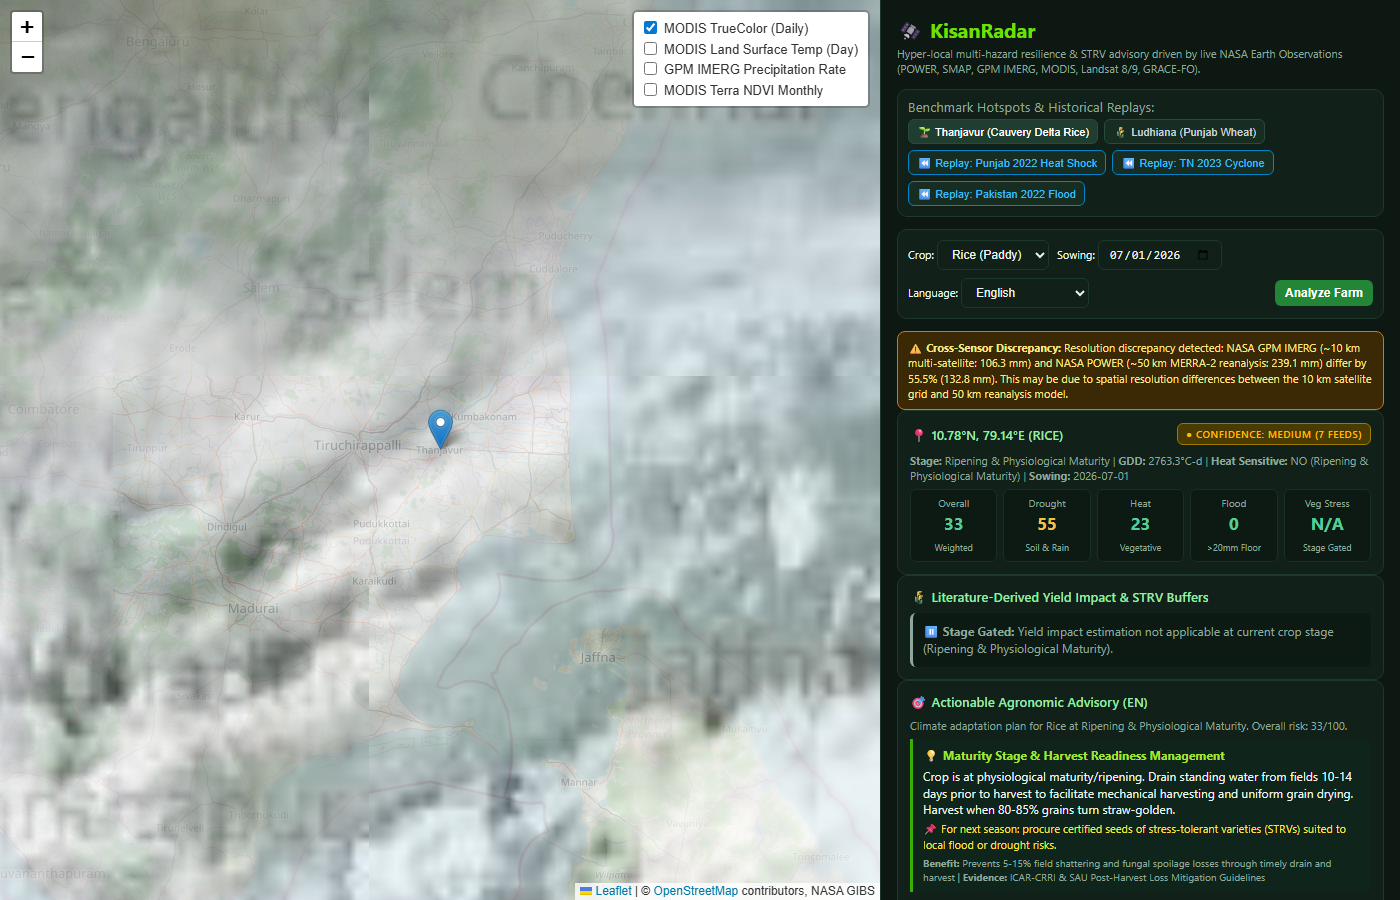
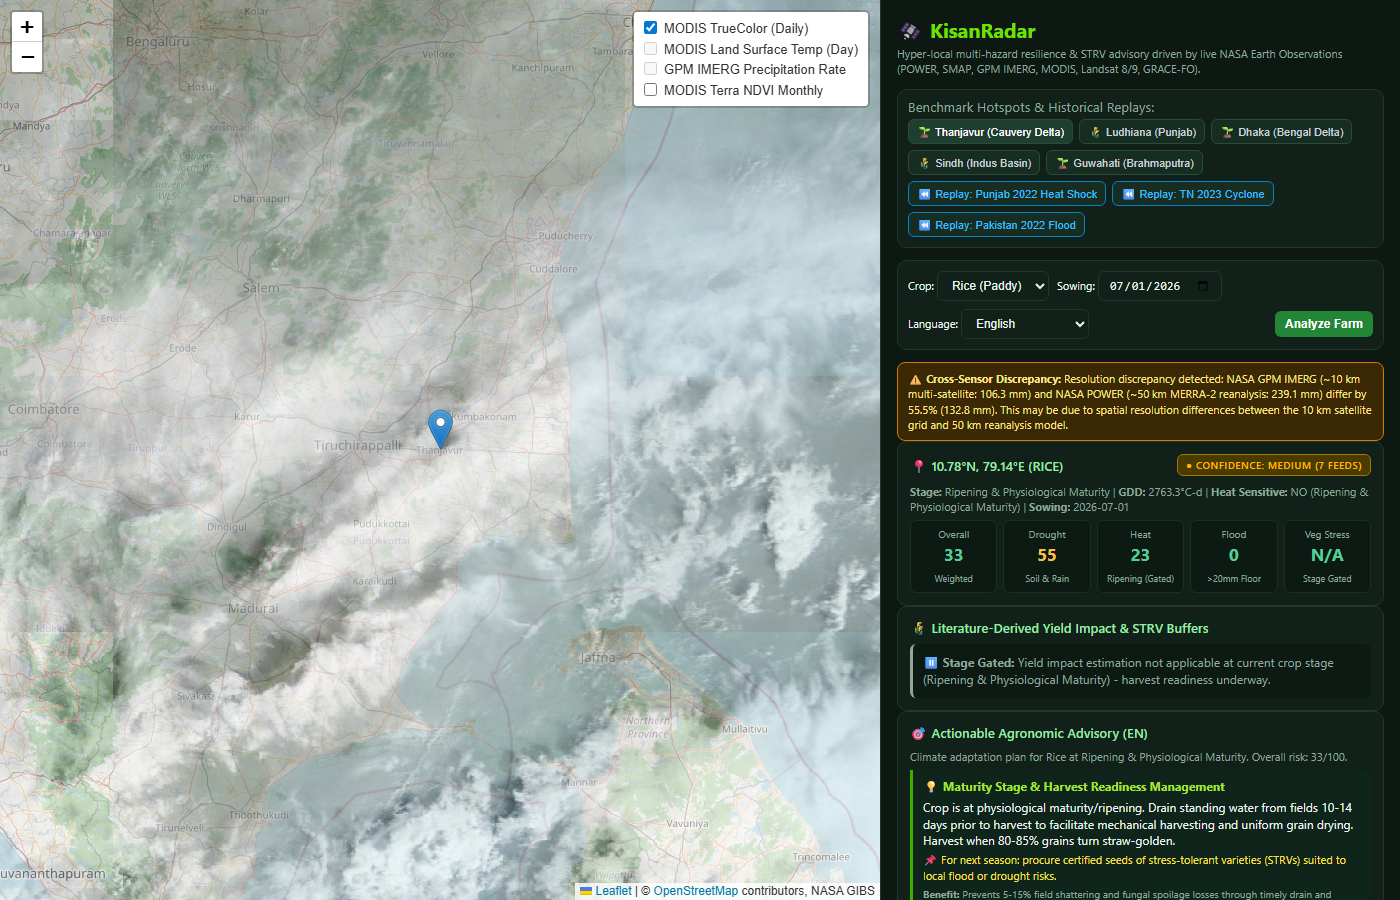
Fix UI labels, stage-gated yield at emergence, cap MODIS zoom, and document heuristics

diff --git a/frontend/index.html b/frontend/index.html
@@ -243,13 +243,13 @@
       <div class="row">
         <label style="font-size: 11px;">Crop:
           <select id="crop">
+            <option value="wheat" selected>Wheat</option>
             <option value="rice">Rice (Paddy)</option>
-            <option value="wheat">Wheat</option>
             <option value="maize">Maize</option>
           </select>
         </label>
         <label style="font-size: 11px;">Sowing:
-          <input type="date" id="sowing_date" value="2026-07-01">
+          <input type="date" id="sowing_date" value="2026-11-10">
         </label>
         <label style="font-size: 11px;">Language:
           <select id="lang">
@@ -277,8 +277,8 @@
   </div>
 
   <script>
-    // Initialize Leaflet Map centered on South Asia
-    const map = L.map('map').setView([20.59, 78.96], 5);
+    // Initialize Leaflet Map centered on Ludhiana, Punjab
+    const map = L.map('map').setView([30.90, 75.85], 7);
     L.tileLayer('https://{s}.tile.openstreetmap.org/{z}/{x}/{y}.png', {
       attribution: '&copy; <a href="https://www.openstreetmap.org/copyright">OpenStreetMap</a> contributors',
       maxZoom: 18
@@ -294,7 +294,7 @@
     const gibsUrl = (layer, time, maxZoom, ext = 'png') =>
       L.tileLayer(`https://gibs.earthdata.nasa.gov/wmts/epsg3857/best/${layer}/default/${time}/GoogleMapsCompatible_Level${maxZoom}/{z}/{y}/{x}.${ext}`, {
         maxNativeZoom: maxZoom,
-        maxZoom: 12,
+        maxZoom: maxZoom,
         opacity: 0.75,
         attribution: 'NASA GIBS'
       });
@@ -309,7 +309,7 @@
     L.control.layers(null, overlayLayers, { collapsed: false }).addTo(map);
     overlayLayers['MODIS TrueColor (Daily)'].addTo(map);
 
-    let pin, trendChart, pt = { lat: 10.78, lon: 79.14 };
+    let pin, trendChart, pt = { lat: 30.90, lon: 75.85 };
 
     function jumpTo(lat, lon, cropVal, sowingVal) {
       pt = { lat: lat, lon: lon };
@@ -412,9 +412,10 @@
       let provHtml = prov.map(p => {
         const isOk = p.status === 'live' || p.status === 'cached';
         const stClass = isOk ? 'status-ok' : (p.status.includes('SKIP') ? 'status-skip' : 'status-err');
+        const srcLabel = p.source.includes('SMAP') ? `${p.source} <span style="font-size:8px; color:#94a3b8;">(short record 2015+)</span>` : p.source;
         return `
           <tr>
-            <td><b>${p.source}</b></td>
+            <td><b>${srcLabel}</b></td>
             <td><code>${p.dataset_id}</code></td>
             <td class="${stClass}">${p.status}</td>
             <td>${p.observed_through || 'N/A'}</td>
@@ -425,6 +426,7 @@
 
       let vegDisplay = k.vegetation !== null ? k.vegetation : 'N/A';
       let vegNote = k.vegetation_applicable ? 'Canopy Anomaly' : 'Stage Gated';
+      const heatStageLabel = ph.in_heat_sensitive_window ? 'Terminal (Active)' : (ph.current_phenological_stage.includes('Ripening') ? 'Ripening (Gated)' : (ph.current_phenological_stage.includes('Mature') ? 'Mature (Gated)' : 'Vegetative (Gated)'));
 
       let html = `
         ${disagreementHtml}
@@ -443,7 +445,7 @@
           <div class="gauges">
             ${g('Overall', k.overall, 'Weighted')}
             ${g('Drought', k.drought, 'Soil & Rain')}
-            ${g('Heat', k.heat, ph.in_heat_sensitive_window ? 'Terminal' : 'Vegetative')}
+            ${g('Heat', k.heat, heatStageLabel)}
             ${g('Flood', k.flood, '>20mm Floor')}
             ${g('Veg Stress', vegDisplay, vegNote)}
           </div>
@@ -470,7 +472,7 @@
               </div>
             </div>
             <small style="color:var(--text-muted); display:block; margin-top:3px; font-size:10px;">
-              Baseline: ${yp.baseline_yield_t_ha} t/ha. Loss drivers: Heat: ${yp.loss_drivers.terminal_heat_pct}%, Drought: ${yp.loss_drivers.drought_moisture_pct}%, Flood: ${yp.loss_drivers.flood_excess_pct}%. Benchmarks: ICAR-NICRA, IPCC AR6 & IRRI field trials.
+              Baseline: ${yp.baseline_yield_t_ha} t/ha (assumed regional baseline, DES India 2018-2022). Loss drivers: Heat: ${yp.loss_drivers.terminal_heat_pct}%, Drought: ${yp.loss_drivers.drought_moisture_pct}%, Flood: ${yp.loss_drivers.flood_excess_pct}%. Benchmarks: ICAR-NICRA, IPCC AR6 & IRRI field trials.
             </small>
           `}
         </div>
@@ -556,6 +558,7 @@
               <small style="display:block; color:var(--text-muted); font-size:10px;">Buffer: +${yp.yield_protected_by_adaptation_t_ha} t/ha</small>
             </div>
           </div>
+          ${yp.loss_note ? `<div style="font-size:10px; color:#93c5fd; margin-top:5px; padding:4px 6px; background:#0c2338; border-radius:4px; border-left:2px solid #38bdf8;">⚠ ${yp.loss_note}</div>` : ''}
         </div>
 
         <div class="card">

diff --git a/yield_model.py b/yield_model.py
@@ -13,18 +13,20 @@ from typing import Optional, Dict, Any
 CROP_BASELINES = {
     "rice": {
         "normal_yield_t_ha": 3.8,
+        "baseline_source": "Assumed regional baseline (Source: DES India Kharif rice district averages 2018-2022)",
         "heat_threshold_c": 34.0,
         "heat_loss_pct_per_deg": 10.0,
         "heat_loss_cap_pct": 40.0,
         "drought_resilient_variety": "Sahbhagi Dhan / BRRI Dhan 56",
         "drought_buffer_t_ha": 0.9,      # +0.8 to 1.0 t/ha advantage under drought
         "submergence_resilient_variety": "Swarna-Sub1",
-        "submergence_buffer_t_ha": 1.8,  # +1.0 to 3.0 t/ha advantage under flash floods
+        "submergence_buffer_t_ha": 2.0,  # +1.0 to 3.0 t/ha advantage under flash floods (IRRI brief)
         "saline_resilient_variety": "BRRI Dhan 47 / CSR 36",
         "documented_range_pct": "15-45% (IRRI/ICAR flood+drought trials)",
     },
     "wheat": {
         "normal_yield_t_ha": 3.4,
+        "baseline_source": "Assumed regional baseline (Source: DES India Rabi wheat district averages 2018-2022)",
         "heat_threshold_c": 31.0,
         "heat_loss_pct_per_deg": 5.0,    # Pre-anthesis pollen sterility & grain shriveling (2022 heatwave benchmark)
         "heat_loss_cap_pct": 25.0,       # Documented Punjab 2022 state avg ~10-15%, hot-spots up to 25-35%
@@ -37,6 +39,7 @@ CROP_BASELINES = {
     },
     "maize": {
         "normal_yield_t_ha": 4.2,
+        "baseline_source": "Assumed regional baseline (Source: DES India maize district averages 2018-2022)",
         "heat_threshold_c": 35.0,
         "heat_loss_pct_per_deg": 7.0,
         "heat_loss_cap_pct": 35.0,
@@ -57,18 +60,44 @@ def estimate_yield_impact(crop: str, metrics: dict, risk: dict, phenology: Optio
     """
     crop_info = CROP_BASELINES.get(crop.lower(), CROP_BASELINES["rice"])
     base_yield = crop_info["normal_yield_t_ha"]
+    base_source = crop_info["baseline_source"]
     
-    # Gate: if crop is at maturity/ripening/harvest, yield impact is not applicable
+    # Gate 1: If crop is at maturity/ripening/harvest, yield impact is not applicable (crop cycle complete)
     if phenology:
         stage = phenology.get("current_phenological_stage", "")
         stage_lower = stage.lower()
+        days = phenology.get("days_since_sowing", 999)
+        gdd = phenology.get("accumulated_gdd", 999.0)
+
         if any(kw in stage_lower for kw in ["ripening", "maturity", "mature", "harvesting", "harvest"]):
             return {
                 "yield_applicable": False,
-                "note": f"Yield impact estimation not applicable at current crop stage ({stage}).",
+                "note": f"Yield impact estimation not applicable at current crop stage ({stage}) - harvest readiness underway.",
                 "estimation_type": "Literature-Based Scenario Estimate",
                 "documented_range_pct": crop_info["documented_range_pct"],
                 "baseline_yield_t_ha": base_yield,
+                "baseline_yield_label": f"Assumed regional baseline: {base_yield} t/ha ({base_source})",
+                "predicted_yield_conventional_t_ha": base_yield,
+                "predicted_yield_with_strv_t_ha": base_yield,
+                "yield_loss_unmitigated_pct": 0.0,
+                "yield_protected_by_adaptation_t_ha": 0.0,
+                "loss_drivers": {
+                    "terminal_heat_pct": 0.0,
+                    "drought_moisture_pct": 0.0,
+                    "flood_excess_pct": 0.0
+                },
+                "recommended_interventions": []
+            }
+
+        # Gate 2: If crop is newly sown / early vegetative, no reproductive or harvestable biomass is at risk yet
+        if days < 14 or gdd < 150.0 or any(kw in stage_lower for kw in ["germination", "emergence", "crown root"]):
+            return {
+                "yield_applicable": False,
+                "note": f"Yield impact estimation not applicable at current crop stage ({stage}, Day {days}) - crop newly sown; vegetative establishment underway.",
+                "estimation_type": "Literature-Based Scenario Estimate",
+                "documented_range_pct": crop_info["documented_range_pct"],
+                "baseline_yield_t_ha": base_yield,
+                "baseline_yield_label": f"Assumed regional baseline: {base_yield} t/ha ({base_source})",
                 "predicted_yield_conventional_t_ha": base_yield,
                 "predicted_yield_with_strv_t_ha": base_yield,
                 "yield_loss_unmitigated_pct": 0.0,
@@ -83,6 +112,7 @@ def estimate_yield_impact(crop: str, metrics: dict, risk: dict, phenology: Optio
     
     # 1. Heat Shock Penalty (Gated strictly by reproductive/flowering phenological window)
     in_sensitive = metrics.get("in_heat_sensitive_window", False)
+    is_heat_capped = False
     if in_sensitive:
         tmax_14d = metrics.get("tmax_14d_c", 30.0)
         thr = crop_info["heat_threshold_c"]
@@ -90,8 +120,10 @@ def estimate_yield_impact(crop: str, metrics: dict, risk: dict, phenology: Optio
         hot_days = metrics.get("hot_days_14d", 0) + metrics.get("hot_days_forecast", 0)
         raw_heat_loss = heat_excess * crop_info["heat_loss_pct_per_deg"] * (1.0 + 0.1 * min(hot_days, 10))
         heat_loss_pct = min(crop_info["heat_loss_cap_pct"], raw_heat_loss)
+        if raw_heat_loss >= crop_info["heat_loss_cap_pct"]:
+            is_heat_capped = True
     else:
-        heat_loss_pct = 0.0  # At sowing or vegetative stage, reproductive heat penalty does not apply
+        heat_loss_pct = 0.0  # At vegetative stage, reproductive heat penalty does not apply
     
     # 2. Drought / Moisture Stress Penalty
     drought_score = risk.get("drought", 20)
@@ -133,7 +165,7 @@ def estimate_yield_impact(crop: str, metrics: dict, risk: dict, phenology: Optio
         recommended_interventions.append({
             "type": "Flash Flood Adaptation",
             "variety": crop_info["submergence_resilient_variety"],
-            "protection": f"+{crop_info['submergence_buffer_t_ha']} t/ha protected through SUB1 submergence tolerance (up to 14 days)",
+            "protection": "+1.0 to 3.0 t/ha protected through SUB1 submergence tolerance (up to 14 days, IRRI trials)",
             "agronomy": "Pre-clear drainage channels, postpone fertilizer top-dressing until waters recede"
         })
         
@@ -148,15 +180,21 @@ def estimate_yield_impact(crop: str, metrics: dict, risk: dict, phenology: Optio
     buffered_yield = min(base_yield, round(buffered_yield, 2))
     yield_saved_t_ha = round(max(0.0, buffered_yield - expected_yield_conventional), 2)
     
+    loss_note = None
+    if is_heat_capped:
+        loss_note = f"documented 10–35% (CIMMYT/ICAR); model at upper cap ({crop_info['heat_loss_cap_pct']}%)"
+
     return {
         "yield_applicable": True,
         "estimation_type": "Literature-Based Scenario Estimate",
         "documented_range_pct": crop_info["documented_range_pct"],
         "baseline_yield_t_ha": base_yield,
+        "baseline_yield_label": f"Assumed regional baseline: {base_yield} t/ha ({base_source})",
         "predicted_yield_conventional_t_ha": expected_yield_conventional,
         "predicted_yield_with_strv_t_ha": buffered_yield,
         "yield_loss_unmitigated_pct": total_loss_pct,
         "yield_protected_by_adaptation_t_ha": yield_saved_t_ha,
+        "loss_note": loss_note,
         "loss_drivers": {
             "terminal_heat_pct": round(heat_loss_pct, 1),
             "drought_moisture_pct": round(drought_loss_pct, 1),

diff --git a/app/advisory/engine.py b/app/advisory/engine.py
@@ -94,7 +94,7 @@ SOLUTIONS_DB = {
         "id": "submergence_rice",
         "category": "flood",
         "evidence_source": "IRRI Sub1 Gene Field Documentation (ICAR-CRRI)",
-        "benefit": "Withstands 14 days of complete underwater submergence with 1.5 - 2.5 t/ha yield recovery",
+        "benefit": "Withstands 14 days of complete underwater submergence with +1.0 to 3.0 t/ha yield recovery (IRRI SUB1 trials)",
         "translations": {
             "en": {
                 "title": "Submergence-Tolerant Rice (Swarna-Sub1 / Sambha Mahsuri-Sub1)",

diff --git a/docs/METHODS.md b/docs/METHODS.md
@@ -41,7 +41,7 @@ $$\text{Risk}(P) = \begin{cases} 0.0 & P \ge 50.0 \\ 100.0 & P \le 5.0 \\ \frac{
 
 - **Primary Rainfall:** GPM IMERG satellite percentile $P_{\text{rain}}$ (cross-checked with POWER MERRA-2).
 - **Primary Soil Moisture:** SMAP L4 satellite root-zone percentile $P_{\text{soil}}$ (cross-checked with POWER GWETROOT).
-- **Physical Soil Moisture Sanity Check:** If absolute root-zone wetness fraction is $\ge 0.50$ (soils saturated/moist), soil drought risk is zeroed out. Between $0.35$ and $0.50$, soil risk is damped linearly: $\text{Risk}_{\text{soil}} \times \frac{0.50 - \theta_{\text{root}}}{0.15}$.
+- **Physical Soil Moisture Sanity Check (Heuristic Rule):** If absolute root-zone wetness fraction is $\theta_{\text{root}} \ge 0.50$ (soils near field capacity / saturation), soil drought risk is zeroed out regardless of multi-year percentile rank. Between $0.35$ and $0.50$, soil risk is damped linearly: $\text{Risk}_{\text{soil}} \times \frac{0.50 - \theta_{\text{root}}}{0.15}$. This physical heuristic prevents false drought alarms in humid deltas (e.g. Cauvery, Bengal Delta) where a season may rank in the lower quartile of multi-year records simply because prior years were hyper-saturated, despite current root-zone moisture being entirely adequate for crop water demand.
 - **Dry-Spell Normalization:** Consecutive dry days are normalized against the historical distribution of dry spells for that exact calendar day. A normal winter dry spell (e.g. November in Punjab) does not add drought risk when soil and rainfall are at/above median.
 $$\text{Base Drought} = 0.50 \times \text{Risk}(P_{\text{rain}}) + 0.50 \times \text{Risk}(P_{\text{soil}})$$
 $$\text{Drought Score} = \min(100, \text{Base Drought} + \delta_{\text{dry}})$$
@@ -81,10 +81,13 @@ Compares 72-hour precipitation (NASA GPM IMERG and numerical forecast) against t
 
 ## 4. Literature-Derived Yield Impact & STRV Buffers
 - **Estimation Paradigm:** Literature-based scenario estimate (ICAR-NICRA, IPCC AR6, IRRI trials), **not machine learning on proprietary farm datasets**.
-- **Stage Gating:** When a crop reaches **Ripening / Physiological Maturity / Harvest**, yield impact estimation is gated out (`yield_applicable: False`, unmitigated loss $0.0\%$), because the crop cycle is complete.
-- **Wheat Terminal Heat Cap:** Heat loss during reproductive grain-filling is capped at $25.0\%$ (matching the documented $10\text{--}35\%$ range from the March 2022 heatwave benchmark).
+- **Assumed Regional Baseline Yields:** Assumed baseline yields (Rice: 3.8 t/ha, Wheat: 3.4 t/ha, Maize: 4.2 t/ha) are regional district averages sourced from the Directorate of Economics and Statistics (DES), Ministry of Agriculture & Farmers Welfare, Government of India (2018–2022 multi-year district crop harvest reports).
+- **Phenology Stage Gating:** 
+  - *Maturity/Harvesting:* When a crop reaches **Ripening / Physiological Maturity / Harvest**, yield impact estimation is gated out (`yield_applicable: False`, unmitigated loss $0.0\%$), because the crop cycle is complete.
+  - *Emergence/Newly Sown:* When a crop is newly sown ($<14\text{ days}$ or $\text{GDD} < 150$), yield loss is gated out (`yield_applicable: False`, unmitigated loss $0.0\%$), because no harvestable biomass is at risk during germination/emergence.
+- **Wheat Terminal Heat Cap:** Heat loss during reproductive grain-filling is capped at $25.0\%$ (matching the documented $10\text{--}35\%$ range from the March 2022 heatwave benchmark, labeled as model upper cap).
 - **STRV Resilience Buffers:**
-  - *Swarna-Sub1:* Protects $+1.8\text{ t/ha}$ against up to 14 days of flash flood submergence.
+  - *Swarna-Sub1:* Protects $+1.0\text{ to }3.0\text{ t/ha}$ against up to 14 days of flash flood submergence (IRRI trials).
   - *Sahbhagi Dhan:* Protects $+0.8\text{ to }1.0\text{ t/ha}$ under drought stress.
   - *Safe Alternate Wetting and Drying (Safe AWD):* Conserves $15\text{--}20\%$ irrigation water.
 
